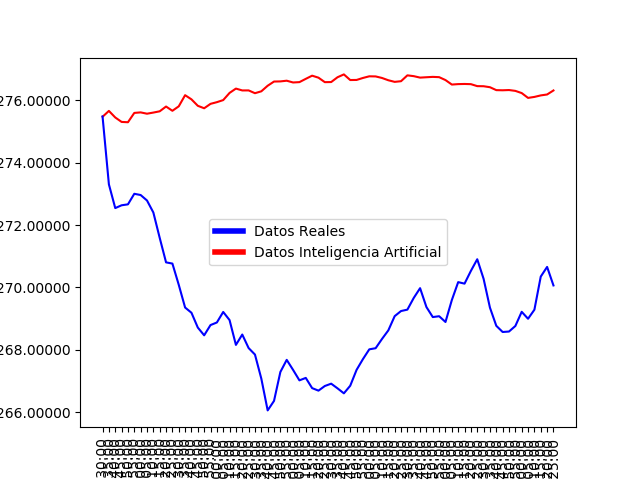
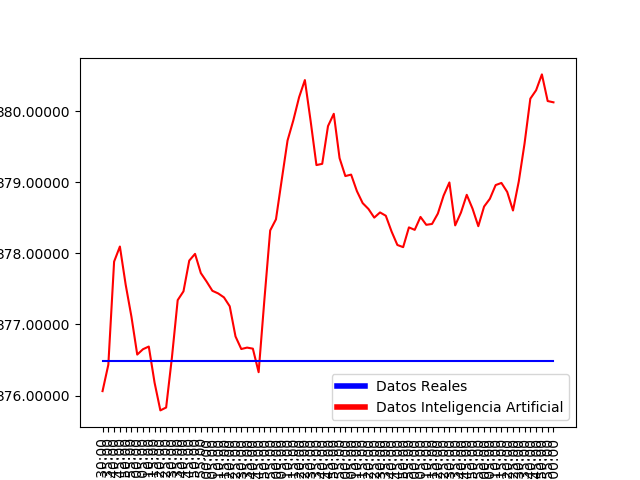
Varias pruebas y programa establa, con IA de regresion y de Clasificacion

diff --git a/IA/GeneradorDatos.py b/IA/GeneradorDatos.py
@@ -1,7 +1,26 @@
+#!/usr/bin/env python3
+
+# import os
+# import subprocess
+# import sys
+#
+# print(os.environ) # Muestra todas las variables de entorno
+# mi_env = os.environ.copy()
+#
+# mi_env['PATH'] = os.pathsep.join(['/Users/dvs/Documents/INGENIERIA_CIVIL/PYTHON/IB/twsapi_macunix/IBJts/source/pythonclient/ibapi', mi_env['PATH']])
+# print(mi_env['PATH'])
+# # sys.exit(mi_env['PATH'])
+# # subprocess.run(args=['export', 'PATH={}'.format(mi_env['PATH'])]) # , env=mi_env
+# # subprocess.run(args=['echo', 'hola'])
+
 from ibapi.client import EClient
 from ibapi.wrapper import EWrapper
 from ibapi.contract import Contract
+from threading import Timer
+import sys
 import os
+
+# raise ValueError('Error Intencional')
 
 ult_bar_date = None
 nombre_archivo = None
@@ -11,6 +30,7 @@ i = 0
 # CREACION DE DIRECTORIO PARA ESCRITURA DE ARCHIVOS .TXT
 DirActual = os.getcwd() # DirActual
 os.chdir('DatosHistoricos') # Cambio de directorio
+# os.chdir('IA/DatosHistoricos') # Cambio de directorio
 carpeta = 'AAPL'
 os.chdir(carpeta) # Cambio subdirectorio
 EstadoConexion = False
@@ -73,8 +93,9 @@ def main():
 
     # '20130701 23:59:59 GMT'
 
-    app.reqHistoricalData(1, contract, '20110510 23:59:59 GMT', '1 Y', '5 mins', 'MIDPOINT', 0, 1, False, [])  # MIDPOINT
-    app.reqHistoricalData(1, contract, '20110510 23:59:59 GMT', '1 Y', '5 mins', 'TRADES', 0, 1, False, [])
+    app.reqHistoricalData(1, contract, '', '2 D', '5 mins', 'MIDPOINT', 0, 1, True, [])  # MIDPOINT
+    app.reqHistoricalData(1, contract, '', '2 D', '5 mins', 'TRADES', 0, 1, True, [])
+    # Timer(5, sys.exit(101)).start()
     app.run()
 
     if EstadoConexion is False: # Mira si entra al atributo error

diff --git a/IA/yahoo.py b/IA/yahoo.py
@@ -5,13 +5,13 @@ import os
 
 DirActual = os.getcwd() # DirActual
 os.chdir('DatosHistoricos') # Cambio de directorio
-carpeta = 'AAPLYAHOO'
+carpeta = 'AAPL3'
 os.chdir(carpeta)
 
 def datosYahoo(simbolo):
     tickerdata = yf.Ticker(simbolo)
     tickerinfo = tickerdata.info
-    tickerDF = tickerdata.history(interval='5m', prepost=True, start="2017-01-01", end="2017-02-01")
+    tickerDF = tickerdata.history(interval='5m', prepost=True)
     print(tickerDF)
     # tickerDF.to_csv('csvtest.csv')
 
